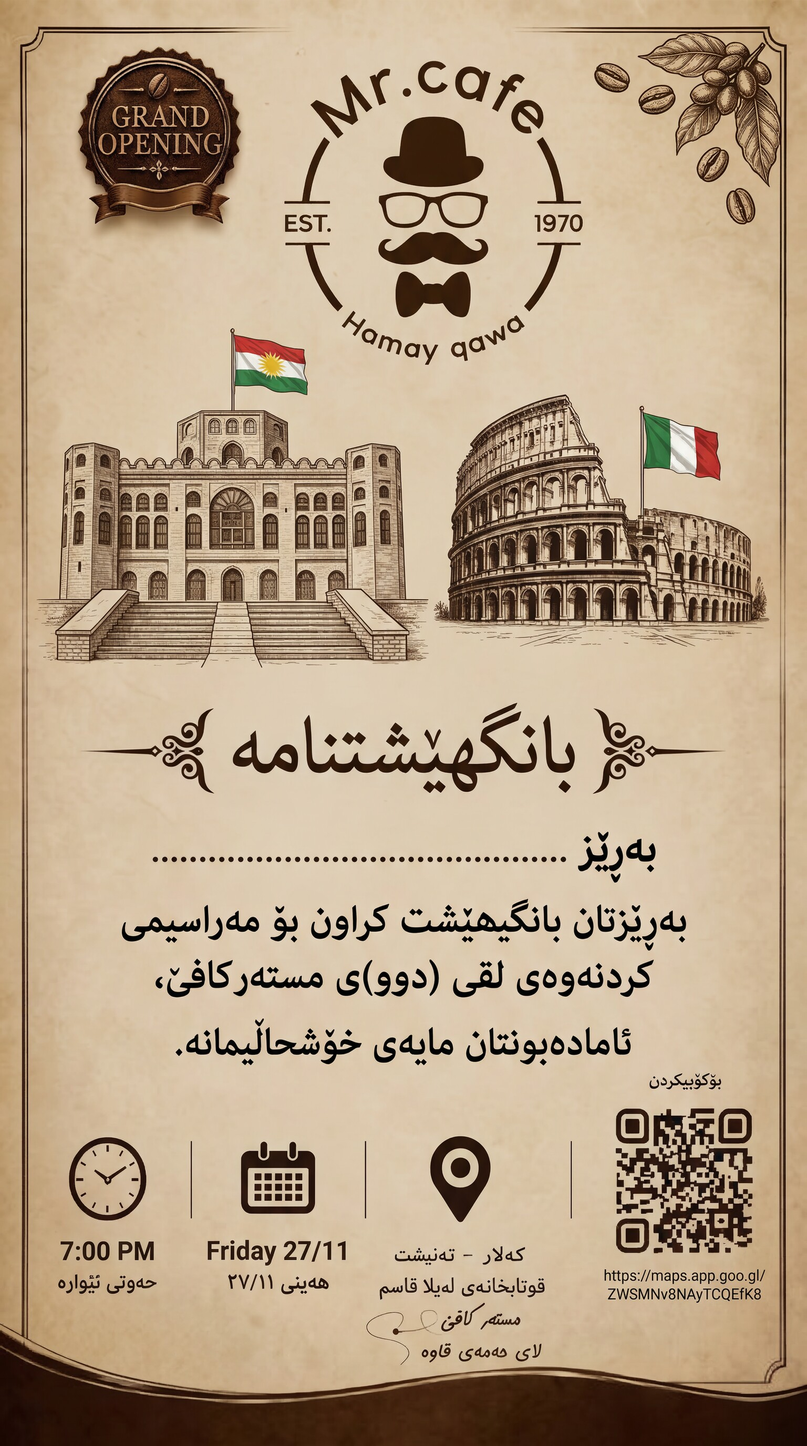
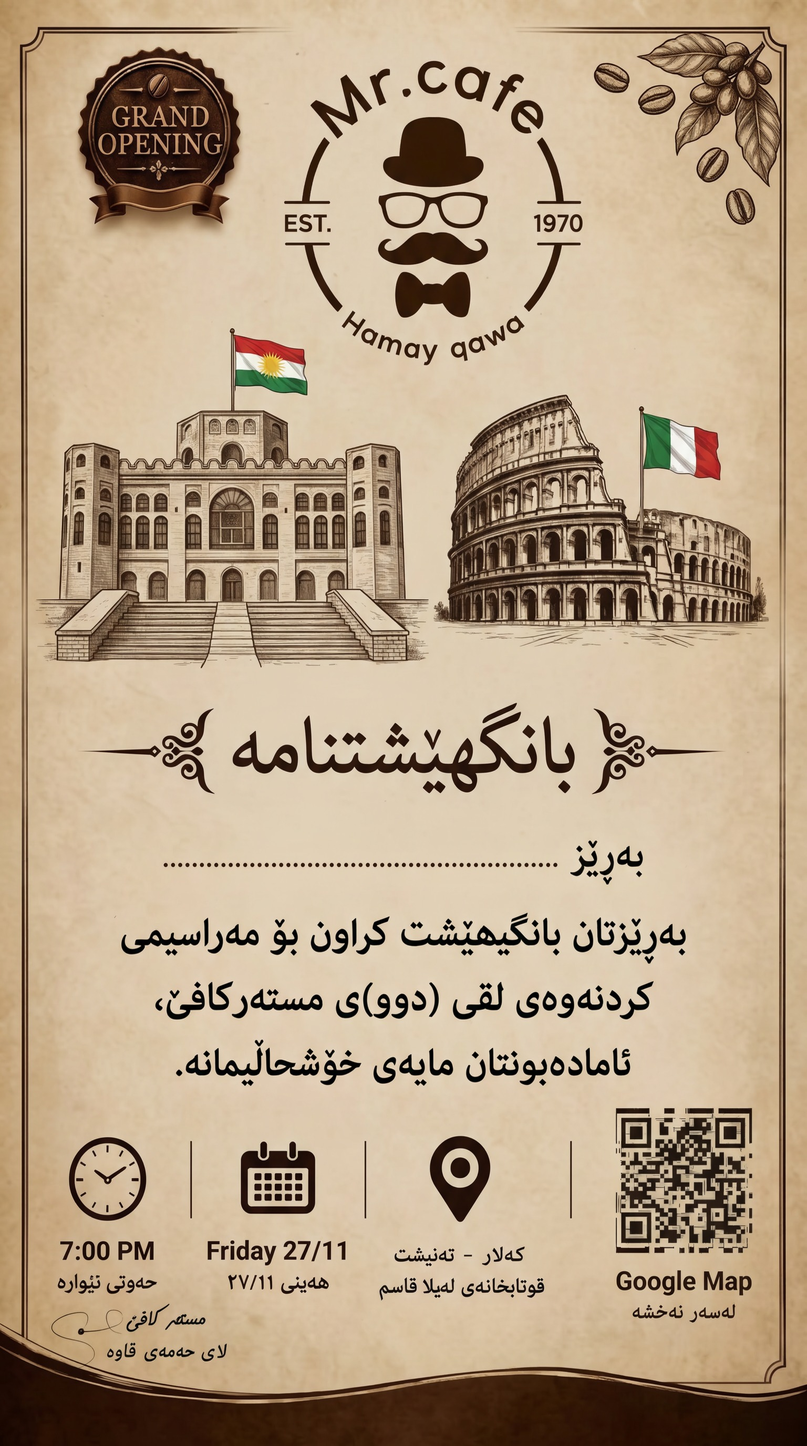
feat: new invitation artwork with working QR codes
Replace both template backgrounds. The previous cards' QR codes did not
scan, and the maps link printed on template 2 was a 404; the new QR codes
both decode and open the cafe's Google Maps place.

Template 2's dotted name line sits 10px lower in this artwork, so it gets
a baselineOffset. Image URLs move to ?v=6.

diff --git a/app.js b/app.js
@@ -19,7 +19,7 @@
   /* ================= ١) ڕێکخستنی بنەڕەت (لێرە بگۆڕە) ================= */
 
   const CFG = {
-    imageSrc: "new_invite_bg.jpg?v=5", // وێنەی باکگراوند لە تەنیشت index.html
+    imageSrc: "new_invite_bg.jpg?v=6", // وێنەی باکگراوند لە تەنیشت index.html
 
     // شوێنی ناو (ڕێژە بۆ قەبارەی وێنە — ٠ … ١)
     centerX: 0.445,     // ناوەندی ئاسۆیی (ناوەندی خاڵەکان)
@@ -40,14 +40,16 @@
   const TEMPLATES = {
     "1": {
       // وێنەیەک کە دەقی یەکەم لەسەر چاپکراوە
-      image: "new_invite_bg.jpg?v=5",
+      image: "new_invite_bg.jpg?v=6",
       body:
         "خۆشحاڵ دەبین بە ئامادەبوونی بەڕێزتان لە مەراسیمی کردنەوەی لقی (دوو)ی مستەر کافێ.\n" +
         "هاتنتان مایەی خۆشحاڵیمانە.",
     },
     "2": {
       // وێنەیەک کە دەقی دووەم لەسەر چاپکراوە
-      image: "new_invite_bg_2.jpg?v=5",
+      image: "new_invite_bg_2.jpg?v=6",
+      // خاڵەکانی «بەڕێز» لەم وێنەیەدا ١٠px نزمترن (y ≈ ١٦٤٦ لەجیاتی ١٦٣٦)
+      baselineOffset: 10 / 2752,
       body:
         "بەڕێزتان بانگێشت کراون بۆ مەراسیمی کردنەوەی لقی (دوو)ی مستەر کافێ،\n" +
         "ئامادەبوونتان مایەی خۆشحاڵیمانە.",

diff --git a/README.md b/README.md
@@ -78,9 +78,10 @@ const CFG = {
 ```
 
 > ### پێوانەی خاڵەکان (لەسەر وێنەی ١٥٣٦ × ٢٧٥٢)
-> هەردوو وێنەکە (`new_invite_bg.jpg` و `new_invite_bg_2.jpg`) **هەمان شوێنی خاڵەکانیان
-> هەیە**: ئاسۆیی `x = 291 … 1077` (ناوەند ٦٨٤) و بەرزی `y ≈ 1630 … 1639`.
-> بۆیە هەمان `centerX = 0.445` و `baselineY = 0.585` بۆ هەردووکیان کار دەکات.
+> `new_invite_bg.jpg`: ئاسۆیی `x = 291 … 1077` (ناوەند ٦٨٤) و بەرزی `y ≈ 1631 … 1640`.
+> `new_invite_bg_2.jpg`: ئاسۆیی `x = 312 … 1060` (ناوەند ٦٨٦) و بەرزی `y ≈ 1642 … 1649`.
+> هەمان `centerX = 0.445` و `baselineY = 0.585` بۆ هەردووکیان بەکاردێت؛ جیاوازیی ١٠px ی
+> وێنەی دووەم بە `baselineOffset` لە `TEMPLATES` دا چارەسەر کراوە.
 >
 > خاڵەکانی بەردەم «بەڕێز» لەم شوێنەدان:
 > * ئاسۆیی: `x = 291 … 1077` → ناوەند `684` = **٠.٤٤٥ی پانی**
